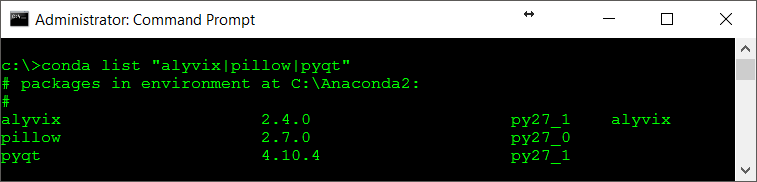
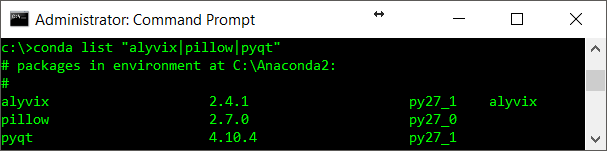
add test case building section

diff --git a/test_case_building/test_case_editor.rst b/test_case_building/test_case_editor.rst
@@ -1,0 +1,127 @@
+****************
+Test case editor
+****************
+
+
+Basic operations
+================
+
+**RIDE** is the Alyvix editor for its test cases, where to write new tests, to edit existing ones, etc. It is also the place from where one can run the Alyvix tools to define new Alyvix visual keywords (e.g. *Image Finder*).
+
+First of all, you have to run the *RIDE shortcut* within the *Anaconda path* to start working with it:
+
+  ``C:\Anaconda2\Scripts\RIDE.lnk``
+
+You can notice common menu and tool bars. The very first operation to start building a new test case is to create a *New Project* (*File* > *New Project*):
+
+  .. image:: pictures/ride_01b_project_window.png
+
+Insert a valid project name (recommendation: lowercased, with underscores instead of spaces, e.g. ``guide_project``) and browse the folder ``\alyvix_testcases`` that you should have created under the Alyvix ``\robotproxy`` folder:
+
+  ``C:\Anaconda2\Lib\site-packages\alyvix\robotproxy\alyvix_testcases``
+
+The file type to select should be *File* and file format should be *Robot*. The editor will save, for the project you work on, the test case scripts that you build (keyword tables) and the Python libraries that you import (system and visual keyword modules) in a ``.robot`` text file.
+
+Now, in the *RIDE main window* on the left there is a *tree view pane*: it lists the current open project (projects are also called "Test Suite") with its test cases. Clicking on the project name, a pane with the project settings appears (as an edit tab) on the right, from where it is possible to import libraries or to add lists (arrays):
+
+  .. image:: pictures/ride_01a_project_window.png
+
+Clicking on the *Library button* you can import either the necessary Alyvix library of system keywords, typing ``alyvixlib``, visual ones and others. When you define at least one Alyvix keyword within a test case, RIDE saves a Python module as the Alyvix library of visual keywords for that test case. That is a .py file within the robotproxy folder and with a filename like AlyvixProxy<project_name> (e.g. ``AlyvixProxyguide_project``):
+
+  .. image:: pictures/ride_01c_import_library.png
+
+Type a library name (alyvixlib at the beginning of a test case building, then AlyvixProxy<project_name> when you define at least one Alyvix keyword) and click on OK to import it: the library name will be listed in black or in red, if RIDE has not been able to find it.
+
+ride_01d_toolbar_save
+
+
+
+Save buttons allows users to save current .robot file, they are working on, or all project .robot files. Remember to click on disk-with-star icon to apply all changes you have done on a test case in order to run the up-to-date version of that test case.
+
+ride_01e_toolbar_alyvix
+
+
+
+Alyvix button opens the Alyvix keyword selector, where the custom keywords (you have created for that project) are listed, can be edited and can be added (clicking on the ‘New’ button to open the Alyvix Finder selector).
+
+ride_01f_toolbar_start
+
+
+
+Run and stop buttons can execute (click on play button) or terminate (double click
+on stop button) the current project (so its selected test cases).
+
+The most useful RIDE shortcuts are the following ones:
+
+Autocomplete keyword from imported libraries: CTRL + Space
+Comment the selected row(s): CTRL + 3
+Uncomment the selected row(s): CTRL + 4
+Copy selected cell/row(s): CTRL + C
+Cut selected cell/row(s): CTRL + X
+Paste selected cell/row(s): CTRL + V
+Undo last operation: CTRL + Z
+Save current file: CTRL + S
+Save all project files: CTRL + SHIFT + S
+Insert a blank row above the selected row: CTRL + I
+Insert a blank cell left to the selected cell: CTRL + SHIFT + I
+Delete the selected row(s): CTRL + D
+Delete the selected cell(s): CTRL + SHIFT + D
+Move up the selected row(s): ALT + ↑
+Move down the selected row(s): ALT + ↓
+Run test cases of the current project: F8
+Stop test cases of the current running project: CTRL + F8
+Open the last produced report: CTRL + L
+
+
+Test case editing
+=================
+
+Right click on the project name in the left pane of the RIDE main window and click on ‘New test case’ option. Insert a name for the test case you are creating (recommendation: lowercased, with underscores instead of spaces).
+
+ride_02a_test_window
+
+Now, clicking on the test case name you visualize its main table on the right (as an edit tab).
+
+ride_02b_test_window
+
+This is the space where to edit the test case, typing keywords in different kind of syntaxes. For the Alyvix basic keywords, the main syntax is the following one: a keyword in a cell of the first column and the keyword arguments (one or more) in the subsequent cells. For example, the following test case scripts one single Alyvix basic keyword that is ‘Create Process’ of alyvixlib: it takes two arguments, the first one is the process you want to run (e.g. Internet Explorer) and the second one is the Internet address you want to browse (e.g. the Alyvix website).
+
+ride_03a_test_case
+
+In the reference section about alyvixlib you can find the complete list of the Alyvix basic keywords and their how-to-use description (e.g. syntax, mandatory or optional arguments and their values, effects).
+
+Alyvix custom keywords, that you will be able to define using the Alyvix tools (e.g. Image Finder, Rect Finder, Text Finder, Object Finder), simply take at minimum no arguments or at maximum a number of arguments with text strings (to find or to type) or keyboard shortcuts (to send). For example, you could define a keyword to detect that a browser has rendered the homepage of the Alyvix website. The keyword could work just detecting images, so it does not take text arguments and you could name it ‘alyvix_website_ready’. In this case, you could use the keyword within a test case just typing its name. RIDE can equally interpret ‘Alyvix Website Ready’.
+
+ride_03b_test_case
+
+There are also several Robot Framework keywords and their syntaxes. Take a look at the complete list of Robot Framework standard libraries and their keywords browsing the following website:
+
+http://robotframework.org/robotframework/#user-guide
+
+For example, in the following test case the variable ${time} is defined with the current hour and the variable ${work} is True or False depending on the value of ${time}, if it is in the range of working hours or not. The final value of ${work} is printed out.
+
+ride_03c_test_case
+
+RIDE also allows creating subtables to use in projects: it is like execute secondary test cases in main ones. Subtables have a name and you can type that name in a test case of the same project to execute the keywords listed in that subtable. Right click on the project name (in tree view on the left pane) and select ‘New user keyword’ to create subtables.
+
+ride_04a_sub_tables
+
+Best practice is to create a setup and an exit subtables. Then you can set to execute them at the beginning of a test case and at its termination both in case of success or failure.
+
+It is a good practice because at startup, you can declare the desired performances and at termination, you can print the collected performances in any case. If something has gone wrong, in any point of the test case, Alyvix can output which the last filled performance is and why the subsequent has failed.
+
+ride_04b_sub_tables
+
+Moreover, the exit subtable is the right place where list keywords to close (or even to kill) any possible windows on screen that the test case can have open. This is good for restoring the original and clean state of the screen, from where to rerun the test.
+
+ride_04c_sub_tables
+
+To set subtables as test case procedures during setup or teardown, click on a test case name in the tree view on the left pane of RIDE, click on ‘Settings >>’ button above the right pane, click the ‘Edit’ button left to the ‘Setup’ or ‘Teardown’ edit boxes and finally type the subtable name (e.g. setup, exit).
+
+ride_04d_sub_tables
+
+ride_02c_test_settings_window
+
+RIDE also allows using subtables as keywords in test cases. In this way, you can pack together Robot Framework and Alyvix commands that represent a frequent routine, under a subtable that can be used in test cases as a single regular keyword. The latter can even take arguments to use within its related subtable.
+
+ride_04e_sub_tables

diff --git a/getting_started/deployment_check.rst b/getting_started/deployment_check.rst
@@ -1,0 +1,37 @@
+****************
+Deployment check
+****************
+
+Follow these steps to be sure that everything is well deployed and works fine:
+
+  1. run **Command Prompt**, execute the following command and check the presence of *pyqt 4.10.4 py27_1*, *pillow 2.7.0 py27_0* and *alyvix 2.4.1 py27_1* as installed conda packages:
+
+    ``conda list “alyvix|pillow|pyqt”``
+
+    .. image:: pictures/01_alyvix_install_check.png
+
+  2. run **Windows Services** (in *Control Panel* > *System and Security* > *Administrative Tools*) and check the presence of **Alyvix Wpm Service**:
+
+    .. image:: pictures/02_alyvix_install_check.png
+
+  3. browse Anaconda folder ``C:\Anaconda2\Lib\site-packages\alyvix\robotproxy`` (where Alyvix will save your test case .py libraries of keywords) and create the folder ``\alyvix_testcases``, where you will save your test case .robot scripts
+
+  4. run **RIDE**, the Alyvix test case editor, running ``C:\Anaconda2\Scripts\RIDE.lnk``: it could be useful to send its shortcut to the desktop or the taskbar
+
+  5. create a *New Project*, clicking on the *File* menu of **RIDE**: type its name (e.g ``my_first_alyvix_testcase_suite``) and point to the folder ``C:\Anaconda2\Lib\site-packages\alyvix\robotproxy\alyvix_testcases``
+
+  6. create a *New Test Case*, right clicking on the project name (e.g *My First Alyvix Testcase Suite*) in the left panel of the editor: type its name (e.g ``my_first_alyvix_testcase``)
+
+  7. import the Alyvix library of basic keywords: click on the project name, then on the *Library* button, type ``alyvixlib`` and click the *OK* button: a library import is successful if its name appears black, otherwise it will be red:
+
+    .. image:: pictures/07_alyvix_ride_test_case_suite.png
+
+  8. edit the test case (clicking on its name) and type the following command (and its arguments) in the first table row, from the first to the third column:
+
+    +--------------------+--------------------------------------------------------+----------------------------+
+    | ``Create Process`` | ``C:\\Program Files\\Internet Explorer\\iexplore.exe`` | ``http://www.alyvix.com/`` |
+    +--------------------+--------------------------------------------------------+----------------------------+
+
+    .. image:: pictures/08_alyvix_ride_test_case_edit.png
+
+  9. save the test case with :kbd:`CTRL+S` and run it with :kbd:`F8`: if Internet Explorer opens Alyvix website, you are ready to build serious Alyvix test cases!

diff --git a/test_case_building.rst b/test_case_building.rst
@@ -1,0 +1,11 @@
+##################
+Test case building
+##################
+
+.. toctree::
+   :maxdepth: 2
+   :name: toc_getting_started
+
+   test_case_building/test_case_editor.rst
+   test_case_building/system_keywords.rst
+   test_case_building/visual_keywords.rst

diff --git a/getting_started.rst b/getting_started.rst
@@ -8,4 +8,4 @@ Getting started
 
    getting_started/install_with_internet.rst
    getting_started/install_without_internet.rst
-   getting_started/check_deployment.rst
+   getting_started/deployment_check.rst

diff --git a/index.rst b/index.rst
@@ -43,6 +43,7 @@ Documentation contents
    basic_principles.rst
    system_requirements.rst
    getting_started.rst
+   test_case_building.rst
 
 
 ===================

diff --git a/test_case_building/system_keywords.rst b/test_case_building/system_keywords.rst
@@ -1,0 +1,5 @@
+***************
+System keywords
+***************
+
+bla

diff --git a/test_case_building/visual_keywords.rst b/test_case_building/visual_keywords.rst
@@ -1,0 +1,5 @@
+***************
+Visual keywords
+***************
+
+bla
